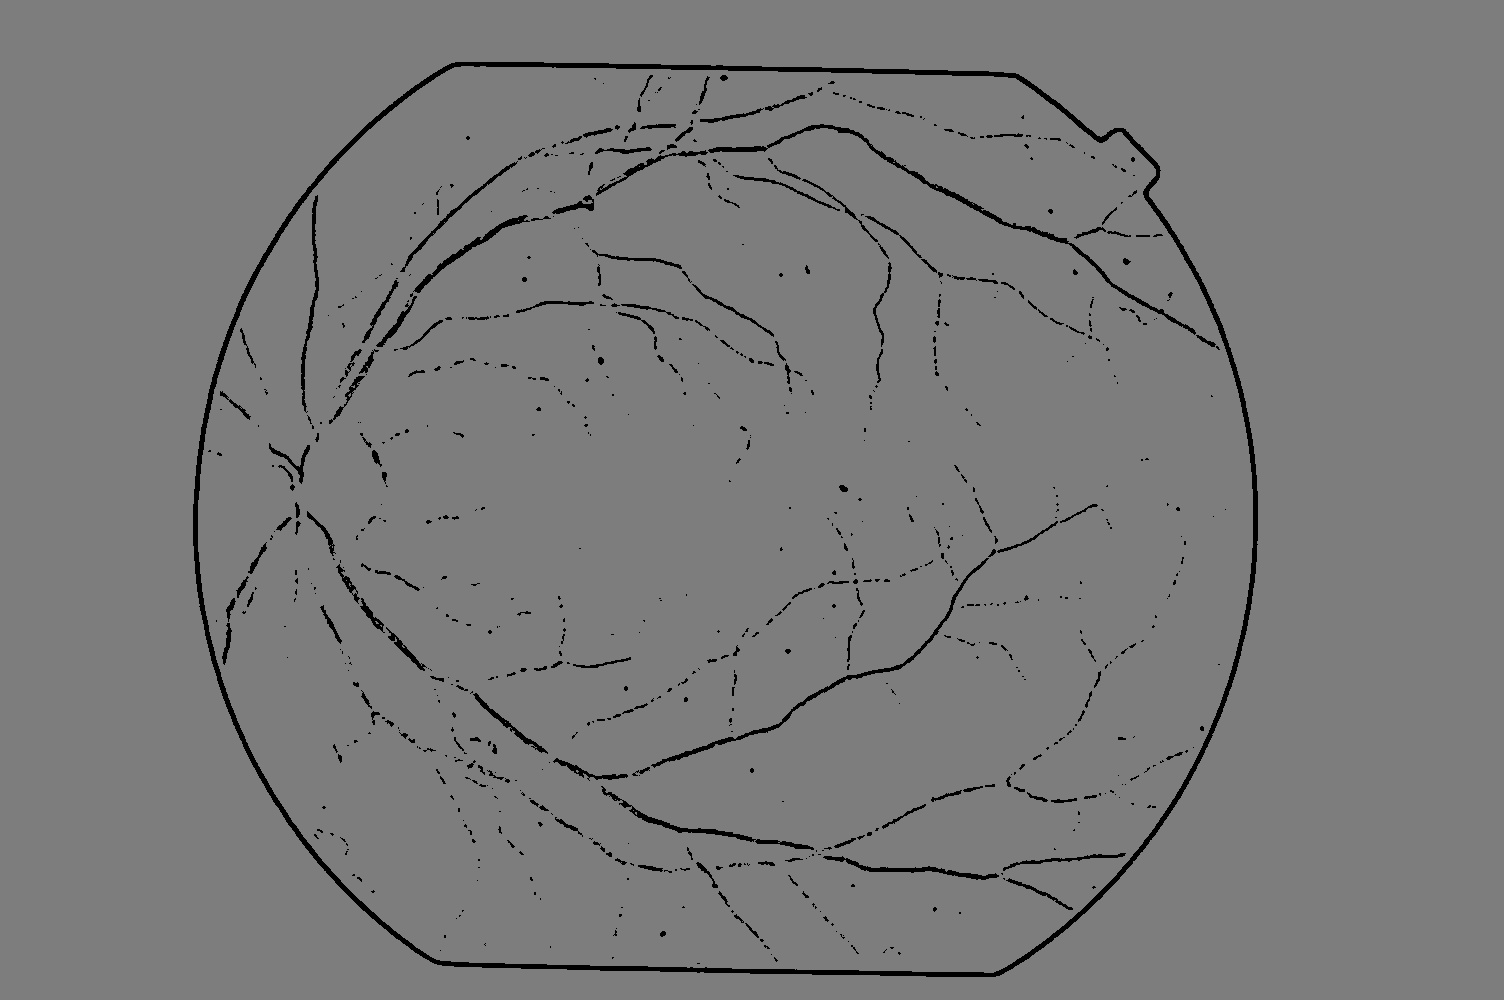
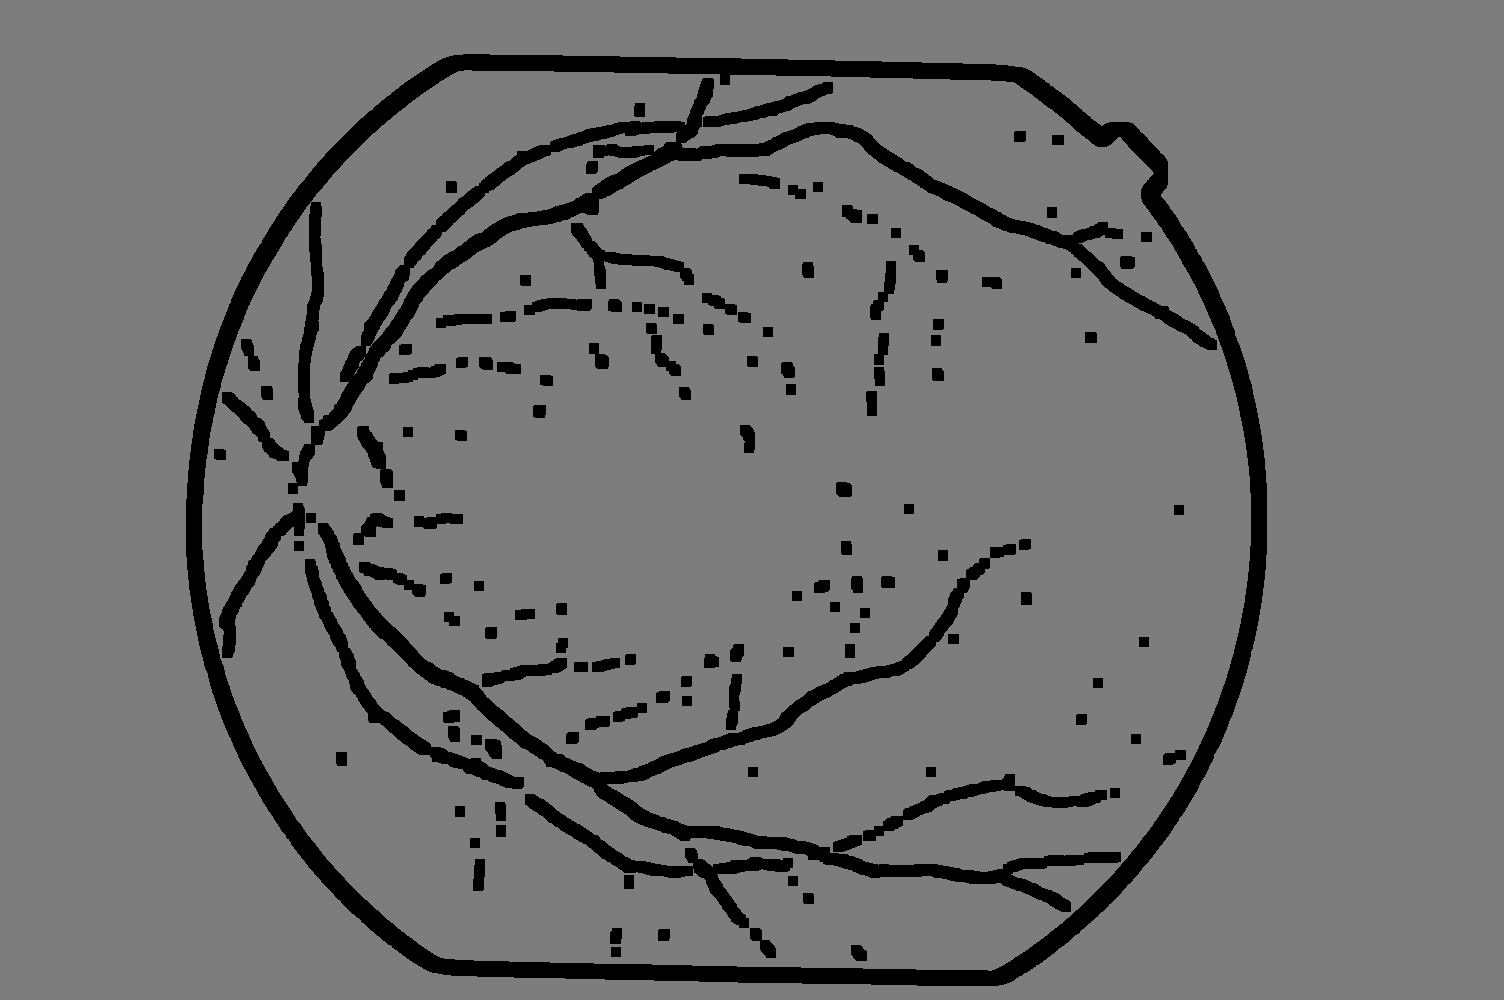
add dilation

diff --git a/RetinalMatch.java b/RetinalMatch.java
@@ -1,18 +1,21 @@
-import java.util.ArrayList;
-import java.util.List;
-
 import org.opencv.core.Core;
 import org.opencv.core.CvType;
-import org.opencv.core.DMatch;
 import org.opencv.core.Mat;
-import org.opencv.core.MatOfDMatch;
-import org.opencv.core.MatOfKeyPoint;
 import org.opencv.core.Scalar;
 import org.opencv.core.Size;
 import org.opencv.core.Core.MinMaxLocResult;
 import org.opencv.imgcodecs.Imgcodecs;
 import org.opencv.imgproc.Imgproc;
-//import org.opencv.features2d.*; // not available in 4.2.0
+import org.opencv.core.Point;
+
+/* These imports only work in later versions (i.e 4.6.0) */
+/* Uncomment these to run feature detection */
+// import org.opencv.core.MatOfDMatch;
+// import org.opencv.core.DMatch;
+// import org.opencv.core.MatOfKeyPoint;
+// import org.opencv.features2d.*;
+// import java.util.ArrayList;
+// import java.util.List;
 
 /**
  * A program using computer vision techniques to see if a person
@@ -21,19 +24,17 @@ import org.opencv.imgproc.Imgproc;
  * will match two retinal images and decide if they are the same
  * individual or not.
  * 
- * @author Harmon Transfield and Edward Wang
+ * @author Harmon Transfield (1317381) and Edward Wang (1144995)
  */
 public class RetinalMatch {
 
     /**
      * Represents the retinal image of a person taken using
      * a retinal fundus camera that scans the eye.
-     * 
-     * @author Harmon Transfield and Edward Wang
      */
     class RetinalImage {
         private Mat _src;
-        private final double SIMILARITY_THRESHOLD = 5.0;
+        private final Double SIMILARITY_THRESHOLD = 0.5d; // values closer to 0 are better matches
 
         /**
          * Constructor.
@@ -54,7 +55,7 @@ public class RetinalMatch {
         }
 
         /**
-         * Writes the image in its current form to a new file
+         * Writes the image in its current form to a new file.
          */
         public void writeSrc() {
             Imgcodecs.imwrite("RIDB_out/img_final", _src);
@@ -63,7 +64,7 @@ public class RetinalMatch {
         /**
          * Provides access to the src class property.
          * 
-         * @return The Mat source image of the RetinalImage of the class.
+         * @return The source image.
          */
         public Mat getSrc() {
             return _src;
@@ -73,8 +74,12 @@ public class RetinalMatch {
          * Applies a non-linear filter to the image, which will remove noise from an
          * image or signal
          * 
+         * Useful Links:
          * https://docs.opencv.org/3.4/dc/dd3/tutorial_gausian_median_blur_bilateral_filter.html
          * https://en.wikipedia.org/wiki/Median_filter
+         * 
+         * @param src The source image
+         * @return An image with a median blur applied
          */
         public Mat medianFilter(Mat src) {
 
@@ -94,30 +99,41 @@ public class RetinalMatch {
          * Adaptive thresholding is the method where the threshold value is
          * calculated for smaller regions.
          * 
+         * Useful links:
          * https://www.tutorialspoint.com/explain-opencv-adaptive-threshold-using-java-example
+         * 
+         * @param src The source image
+         * @return A binary image
          */
         public Mat adaptiveThreshold(Mat src) {
             // Imgproc.cvtColor(src, src, Imgproc.COLOR_BGR2GRAY);
 
-            Imgproc.adaptiveThreshold(src, src, 125,
-                    Imgproc.ADAPTIVE_THRESH_MEAN_C,
-                    Imgproc.THRESH_BINARY, 11, 12);
+            int maxValue = 125;
+            int blockSize = 23;
+            int c = 12;
 
+            Imgproc.adaptiveThreshold(src, src, maxValue,
+                    Imgproc.ADAPTIVE_THRESH_MEAN_C,
+                    Imgproc.THRESH_BINARY, blockSize, c);
             Imgcodecs.imwrite("RIDB_out/img_threshold.jpg", src);
             return src.clone();
         }
 
         /**
-         * Increase the contrast of the image
+         * Increases the contrast of the image.
+         * 
+         * @param src The source image.
+         * @return An iamge with its contrast increased.
          */
         public Mat enhanceContrast(Mat src) {
             Imgproc.cvtColor(src, src, Imgproc.COLOR_BGR2GRAY);
             src.convertTo(src, -1, 2, 0);
+            Imgcodecs.imwrite("RIDB_out/img_contrast.jpg", src);
             return src.clone();
         }
 
         /**
-         * Dilation adds pixels to the boundaries of the image
+         * Performs edge detection
          * 
          * https://opencv-java-tutorials.readthedocs.io/en/latest/07-image-segmentation.html
          */
@@ -127,29 +143,37 @@ public class RetinalMatch {
             Mat dst = new Mat();
 
             // fill dst image with 0s (meaning the image is completely black)
-            Core.add(dst, Scalar.all(0), dst);
-            src.copyTo(dst, detectedEdges);
-
+            Core.add(src, Scalar.all(0), src);
+            src.copyTo(src, detectedEdges);
+            Imgcodecs.imwrite("RIDB_out/img_detection.jpg", src);
             return dst;
         }
 
         /**
+         * Performs erosion removes pixels from the image's
+         * boundary.
          * 
-         * @param src
-         * @return
+         * @param src The source image.
+         * @return An eroded image.
          */
         public Mat erosionAndDilation(Mat src) {
-            Mat kernel1 = Imgproc.getStructuringElement(Imgproc.MORPH_ELLIPSE, new Size(1, 1));
-            Mat kernel2 = Mat.ones(5, 5, CvType.CV_8U);
+            Mat kernel = Mat.ones(4, 4, CvType.CV_32F);
 
-            Imgproc.erode(src, new Mat(), kernel2);
-            Imgproc.dilate(src, src, kernel1);
+            // perform dilation
+            Imgproc.morphologyEx(src, src, Imgproc.MORPH_CLOSE, kernel);
+            Imgcodecs.imwrite("RIDB_out/img_dilation.jpg", src);
+
+            // perform erosion
+            Imgproc.erode(src, src, new Mat(), new Point(-1, -1), 3);
             Imgcodecs.imwrite("RIDB_out/img_errosion.jpg", src);
             return src.clone();
         }
 
         /**
          * Converts the colour space the image to a HSV format.
+         * 
+         * @param src The source image.
+         * @return An image with the HSV colour space.
          */
         public Mat convertToHSV(Mat src) {
 
@@ -163,19 +187,23 @@ public class RetinalMatch {
          * 
          * NOTE: The feature detection does not work in 4.2.0
          * 
+         * Useful links:
          * https://www.programcreek.com/java-api-examples/?api=org.opencv.features2d.DescriptorExtractor
+         * https://docs.opencv.org/2.4/modules/imgproc/doc/object_detection.html?highlight=matchtemplate#matchtemplate
          * 
-         * @param ri The image being compared and matched.
+         * @param src The image being compared and matched.
          */
         public void compareImage(RetinalImage ri) {
             Mat src2 = ri.getSrc();
             Mat matching = new Mat();
             _src = pipeline(_src);
             src2 = pipeline(src2);
-            Imgproc.matchTemplate(_src, src2, matching, Imgproc.TM_SQDIFF);
+            Imgproc.matchTemplate(_src, src2, matching, Imgproc.TM_CCOEFF_NORMED);
 
             MinMaxLocResult mmr = Core.minMaxLoc(matching);
-            System.out.println(mmr.maxVal <= SIMILARITY_THRESHOLD ? 1 : 0);
+            Double maxVal = new Double(mmr.maxVal);
+            System.out.println(maxVal);
+            System.out.print(mmr.maxVal < 0.5 ? 0 : 1);
 
             /* !!!: Not available in 4.2.0 */
             // SIFT detector = SIFT.create();
@@ -257,6 +285,7 @@ public class RetinalMatch {
         RetinalImage image1 = rm.new RetinalImage(filename1);
         RetinalImage image2 = rm.new RetinalImage(filename2);
 
+        // begin comparison
         image1.compareImage(image2);
     }
 }
